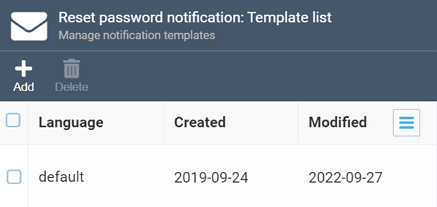
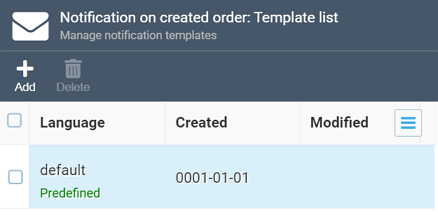
docs: Finalize Notification Documentation

diff --git a/user_docs/docs/notifications/notification-list.md b/user_docs/docs/notifications/notification-list.md
@@ -4,33 +4,28 @@ The notification list shows all existing notifications that are currently config
 
 ![Notification list](media/notification-list.png)
 
+!!! note
+	Email and text message are two types of notifications Virto Commerce supplies by default. Your development team may configure other types that will notify your customers through other communication channels, such as messengers.
+
 ## Notification Details
-Once you click any notification in the list, the ***Notification Details*** screen will show up:
+Once you click any notification in the list, the ***Notification Details*** screen will show up. The way it looks like depends on the notification type:
+
++ Email notofication:
 
 ![Notification details](media/notification-details.png)
 
++ Text message (SMS) notification:
+
+![Notification details for text messages](media/notification-details-sms.png)
+
+### Email Notification Details
 While the *Notification name* field is uneditable, you can provide emails for the ***CC*** and ***BCC*** fields and toggle the ***Active*** button, which activates or disables your notification.
 
-Apart from those fields, you also have two widgets to manage your notifications, which we will cover below.
+!!! note
+	Both the ***CC*** and ***BCC*** fields are provided for testing purposes only, e.g., when you want to see whether your email notification works correctly and can reach the specified addresses. In the production environment, the emails will be programmed to be sent to the relevant customer addresses, and you won't need to provide those manually.
 
-### Widgets
+### Text Notification Details
+Text message notifications, logically, do not have the ***CC*** and ***BCC*** fields; instead, they provide you with an option to add a phone number, which is again for testing purposes only.
 
-The first widget, ***Templates***, shows the list of templates for your notification:
-
-![Notification template list](media/notification-template-list.png)
-
-Templates are, basically, containers that house all content for your notification, i.e. the message you are sending to your customer. For each template, you can set language, assign specific layout<!---add link to notif layouts-->, and provide the subject line and the message itself:
-
-<!---add image-->
-
-As you can see, you can format your message with both HTML and Markdown, and then click ***Preview*** to see how it will roughly look like:
-
-<!---add image-->
-
-Finally, you can provide sample JSON data to replace the variables with specific values in the preview:
-
-<!---add image-->
-
-The ***Notification log*** widget is pretty simple and shows whether the notification was delivered successfully or failed when it was being sent:
-
-<!---add image-->
+## More Info
+Apart from the fields described above, you also have two widgets to manage your notifications, [Templates](notification-templates.md) and [Notification log](notification-log.md), which we cover in the respective sections.

diff --git a/user_docs/docs/notifications/notification-templates.md b/user_docs/docs/notifications/notification-templates.md
@@ -1,0 +1,30 @@
+# Notification Templates
+
+!!! note
+	In this section, we cover email notifications as a type that is most popular and handy and has the most options available. Unlike email notifications, text message ones lack such options as ***Layout*** and ***Subject Line***, while their formatting is also very much limited. However, they do share other options with the email notification type.
+
+The ***Templates*** widget shows the list of templates available for your notification:
+
+![Notification template list](media/notification-template-list.png)
+
+!!! note
+	The ***predefined*** label means that this notification template is supplied out of the box. If you make changes to it and then save it, it will be replaced with your changed version, but the system will warn you about it:
+	
+	![Predefined notification warning](media/warning-for-predefined-template.png)
+	
+	You can, however, restore defaults any time by clicking the ***Restore*** button in the top toolbar.
+
+Templates are, basically, containers that house all content for your notification, i.e. the message you are sending to your customer. For each template, you can set language, assign specific [layout](notification-layouts.md), and provide the subject line and the message itself:
+
+![Notification template options](media/notification-template-options.png)
+
+!!! warning
+	The only way to create a *new* template for the notification you are working with is creating one for another language. If you create a new template with the same language the current template has, e.g., ***default*** or ***EN-US***, it will override the current template.
+
+As you can see, you can format your message with both HTML and Markdown, and then click the ***Preview*** button in the top toolbar to see how it will roughly look like:
+
+![Notification template preview](media/notification-template-preview.png)
+
+Finally, you can provide sample JSON data to replace the variables with specific values in the preview:
+
+![Sample JSON data](media/sample-json-data.png)

diff --git a/user_docs/docs/notifications/notification-layouts.md b/user_docs/docs/notifications/notification-layouts.md
@@ -1,0 +1,10 @@
+# Notification Layouts
+The ***Notification layout*** option allows you to manage the existing layouts and add new ones. Layouts define formatting for your [notification templates](notification-templates.md) and use mostly HTML and CSS languages, which means you may require help from your web designers to configure those.
+
+To create a new notification layout, click the ***Add*** button, paste or write your layout, and click ***Save***: 
+
+![Notification layout](media/notification-layouts.png)
+
+Once you do so, your new layout will be available for picking in the ***Layout*** list within the [Notification template](notification-templates.md) screen:
+
+![Notification layout list](media/notification-layout-list.png)

diff --git a/user_docs/docs/notifications/tech-doc.md b/user_docs/docs/notifications/tech-doc.md
@@ -22,6 +22,7 @@ If you would like to register a notification e.g. 'SampleEmailNotification':
     registrar.RegisterNotification<SampleEmailNotification>();
     ```
     >look at [the code](https://github.com/VirtoCommerce/vc-module-notification/blob/dev/samples/VirtoCommerce.NotificationsSampleModule.Web/Module.cs#L59)
+	
 ## How to define a template for the notification    
 1. If need to use predefined templates then 
     1. use construction:

diff --git a/user_docs/docs/notifications/settings.md b/user_docs/docs/notifications/settings.md
@@ -1,0 +1,12 @@
+# Settings
+This section covers the Notifications module settings.
+
+## Language Settings
+
+Currently, the only settings you can configure for the Notifications module are language settings. To do so:
+
++ Go to *Settings -> Notifications -> General*.
++ Click the pensil icon near the ***Languages*** option.
++ Add or delete languages as required:
+
+![Language settings](media/language-settings.png)

diff --git a/user_docs/docs/notifications/notification-activity-feed.md b/user_docs/docs/notifications/notification-activity-feed.md
@@ -1,0 +1,7 @@
+# Notification Activity Feed
+
+The ***Notification Activity Feed*** option displays the list of all notification records created in the system and shows whether those notifications succeeded or failed: 
+
+![Notification activity feed](media/notification-activity-feed.png)
+
+Basically, it is the same as the [notification log](notification-log.md), but working across the board.

diff --git a/user_docs/docs/notifications/notification-log.md b/user_docs/docs/notifications/notification-log.md
@@ -1,0 +1,4 @@
+# Notification Log
+The ***Notification log*** widget is pretty simple and shows whether the notification was delivered successfully or failed when it was being sent:
+
+![Notification log](media/notification-log.png)
